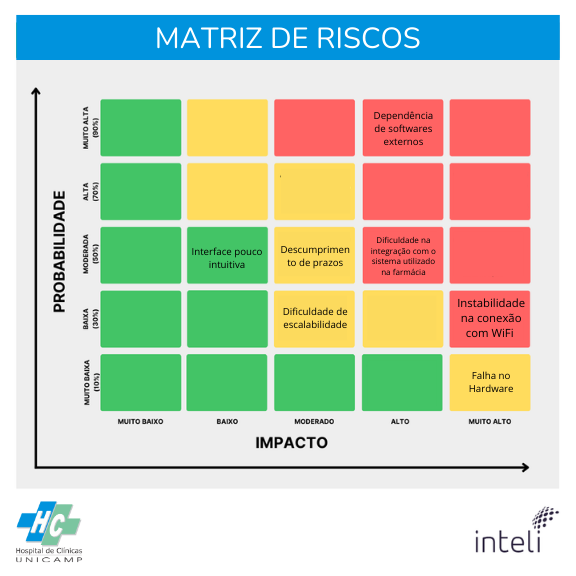
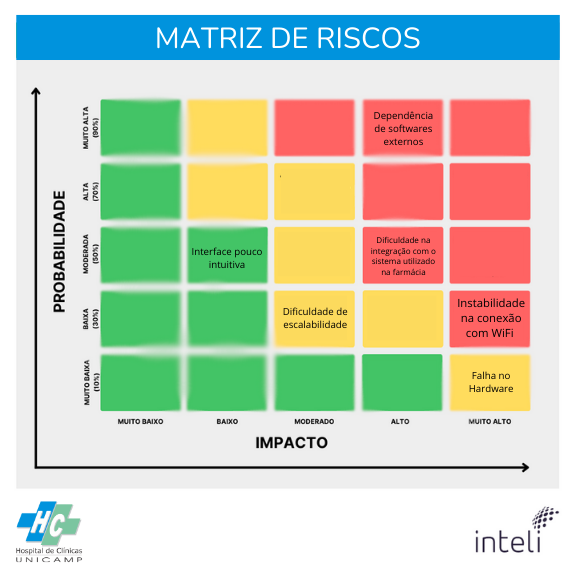
docs: altera imagem da matriz de riscos

diff --git a/docs/docs/Sprint-1/Negócios/matriz.md b/docs/docs/Sprint-1/Negócios/matriz.md
@@ -46,7 +46,6 @@ slug: /sprint-1/Negócios/matriz_riscos_oport
 | 1   | **Dependência de softwares externos:** Para mitigar a dependência dos softwares externos utilizados na farmácia, utiliza-se uma *middleware* (camada intermediária) para armazenar os dados a serem trabalhados, para casos de desconexão com o software terceiro. |
 | 2   | **Dificuldade na integração com o sistema utilizado na farmácia:** Desenvolver uma documentação detalhada para evitar erros na aquisição de dados, além do tratamento dos dados recebidos para formatação adequada aos softwares externos. Ademais, buscamos o desenvolvimento de uma API facilmente configurável, para possíveis casos de troca de sistema externo e/ou diferenças entre versões.                               |
 | 3   | **Instabilidade na conexão com Wi-Fi:** Garantir o funcionamento do robô separador para que funcione, independentemente do status da conexão Wi-Fi e manter últimos dados recebidos da API salvos localmente.                                    |
-| 4   | **Falha no hardware:** Utilização de pontos de checagem na movimentação do robô para garantir que, uma vez que o robô não atingir o desempenho esperado, garantir que nenhum medicamento seja selecionado de maneira errônea e interromper sua atuação e enviar relatório de erro para futuras implementações.                                                                                            |
-| 5   | **Descumprimento de prazos:** Reforçar a gestão de projetos com um Kanban atualizado e revisar periodicamente os cronogramas para garantir que os prazos sejam alcançáveis, além de monitorar a distribuição de trabalho entre os membros da equipe de desenvolvimento.                                                             |
-| 6   | **Dificuldade de escalabilidade:** Garantir a independência dos serviços presentes na solução, elaborar extensa e detalhada documentação do funcionamento das funcionalidades de nossa aplicação Web e controle do hardware.                                                                                 |
-| 7   | **Interface pouco intuitiva:** Realização de testes de usabilidade com público-alvo para adequar a disposição de recursos e ajustas funcionalidades para melhor seus objetivos.                                                                                                                                            |
+| 4   | **Falha no hardware:** Utilização de pontos de checagem na movimentação do robô para garantir que, uma vez que o robô não atingir o desempenho esperado, garantir que nenhum medicamento seja selecionado de maneira errônea e interromper sua atuação e enviar relatório de erro para futuras implementações.                                                                                            |                                                             |
+| 5   | **Dificuldade de escalabilidade:** Garantir a independência dos serviços presentes na solução, elaborar extensa e detalhada documentação do funcionamento das funcionalidades de nossa aplicação Web e controle do hardware.                                                                                 |
+| 6   | **Interface pouco intuitiva:** Realização de testes de usabilidade com público-alvo para adequar a disposição de recursos e ajustas funcionalidades para melhor seus objetivos.                                                                                                                                            |
